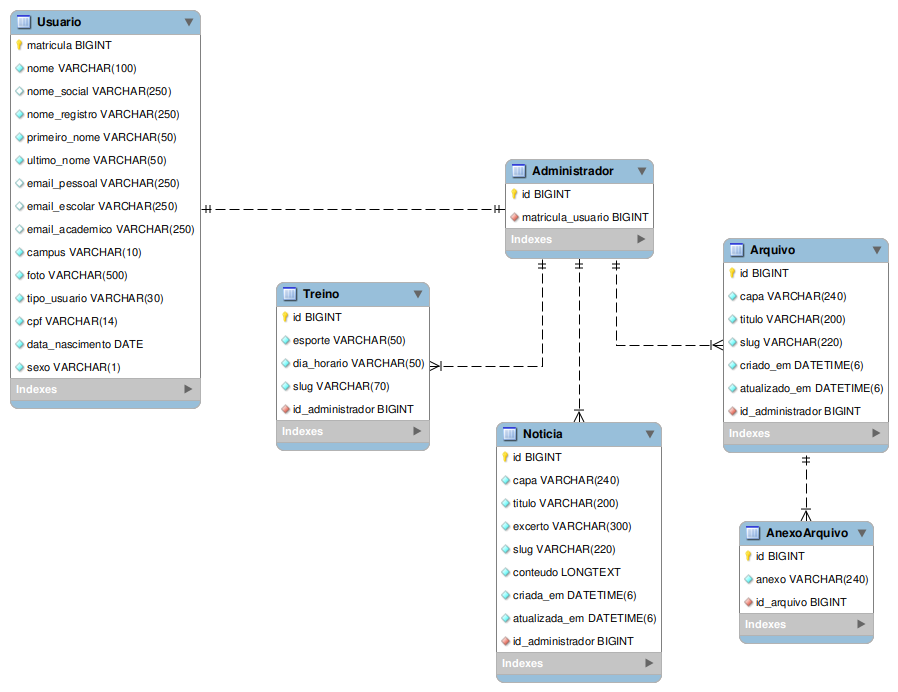
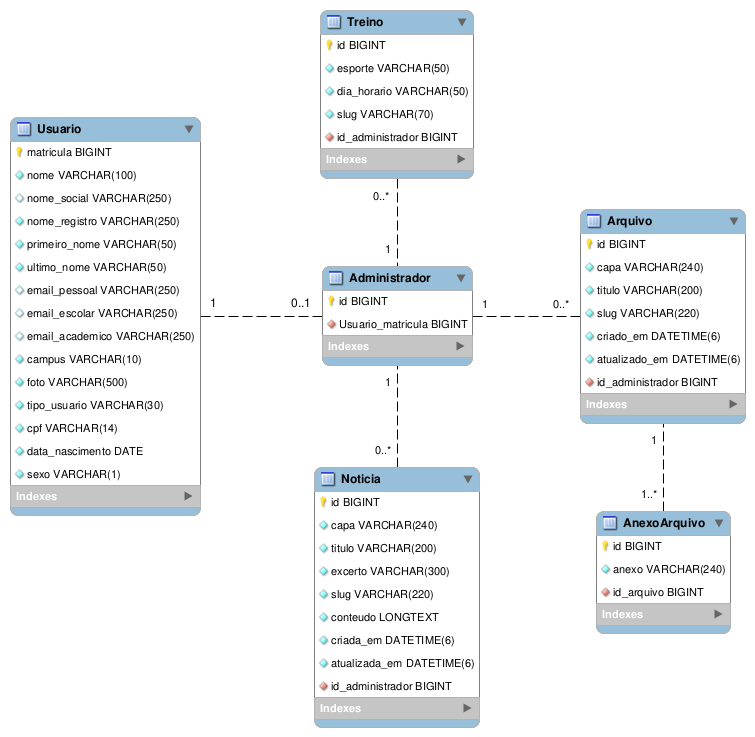
adicionada cardinalidade aos relacionamentos

Changed region(s): [[0.3046, 0.0, 0.7616, 1.0], [0.0, 0.0, 0.2742, 0.698], [0.7311, 0.2731, 1.0, 0.9408]]

diff --git a/README.md b/README.md
@@ -16,10 +16,15 @@ Finalizada a modelagem de dados, foi possível chegar ao diagrama entidade-relac
 
 > É necessário ter o interpretador [Python](https://www.python.org/downloads/) na versão 3.12.1 instalado no sistema.
 
-Baixe o repositório, abra o terminal na raiz dele, crie um ambiente virtual e o ative.
+Baixe o repositório, abra o terminal na raiz dele e crie um ambiente virtual.
 
 ```bash
 python -m venv venv
+```
+
+Ative o ambiente virtual criado.
+
+```bash
 . venv/bin/activate
 ```
 
